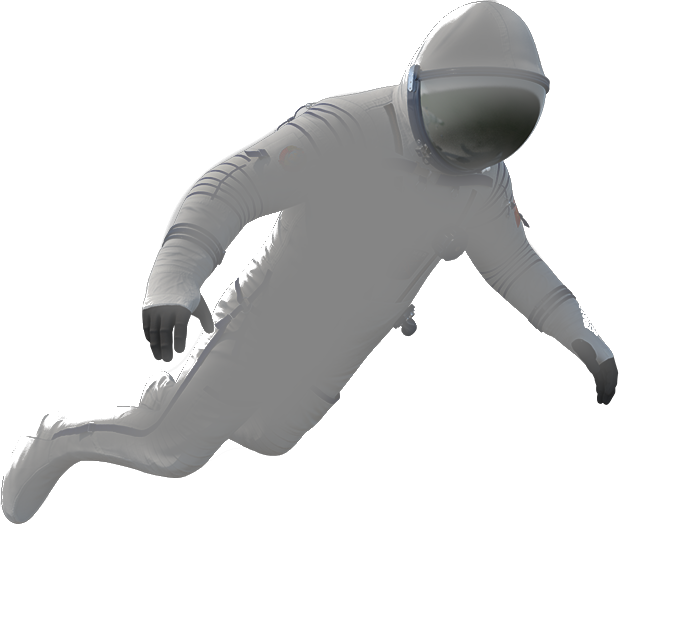
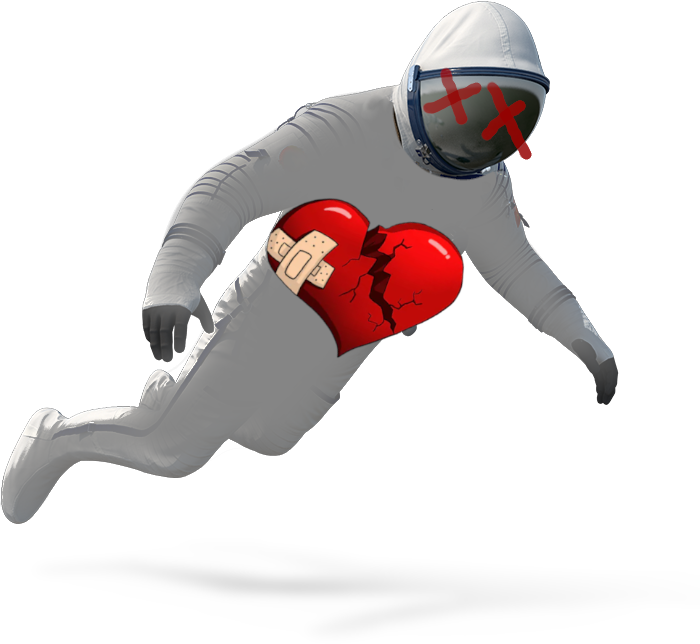
plof

diff --git a/js/index.js b/js/index.js
@@ -14,7 +14,7 @@ window.onload = () => {
     constructor() {
       this.x = 20;
       this.y = 250;
-      this.w = 60;
+      this.w = 80;
       this.h = 90;
       this.propulsion = 2;
       this.robernautImg = new Image();
@@ -128,30 +128,38 @@ window.onload = () => {
       rst.style.display = "inline";
       rst.addEventListener('click', ()=>{  location.reload()})
     }
-    damagedSwap(){
-      if(! this.astronaut.color == 'red' || 'blue' ){
-        this.astronaut.changeColorGrey()
-        setTimeout(()=>{changeColorOrange()},500)
-      }
-      }
-    lossofLife(){
-      this.astronaut.changeColorOrange()
-      setInterval(damagedSwap(),500)
-      setTimeout(()=>{this.astronaut.changeColorRed},3000)
-
-    }
+      
     damage(){
-      if(this.astronaut.damaged == false){
+      if(this.lifes>1){
+        if(this.astronaut.damaged == false){
         this.astronaut.damaged = true
         this.lifes -=1
-        this.lossofLife()
-        setTimeout(()=>{this.astronaut.damaged=false}, 350)
+        }
+        if(this.astronaut.astronautColor == "red"){
+          this.astronaut.changeColorGrey()
+          setTimeout(()=>{this.astronaut.changeColorRed()},1800)
+        }
+        if(this.astronaut.astronautColor == "blue"){
+          this.astronaut.changeColorGrey()
+          setTimeout(()=>{this.astronaut.changeColorBlue()},1800)
+        }    
+        setTimeout(()=>{this.astronaut.damaged=false}, 2000)
+        console.log(this.lifes)
+      }
+      else if(this.lifes == 1){
+        if(this.astronaut.damaged == false){
+          this.astronaut.damaged = true
+          this.lifes -=1
+          }
+      }
+      else{
+        this.astronaut.robernautImg.src = "images/plof.png";
+        this.astronaut.w = 100;
+        this.astronaut.h = 100;
+        setTimeout(()=>{this.stop()},100)
+        
+      }
     }
-    console.log(this.lifes)
-    if(this.lifes == 0){
-      this.stop()
-    }
-  }
   clear() {
     this.ctx.clearRect(0, 0, this.canvas.width, this.canvas.height);
   }
